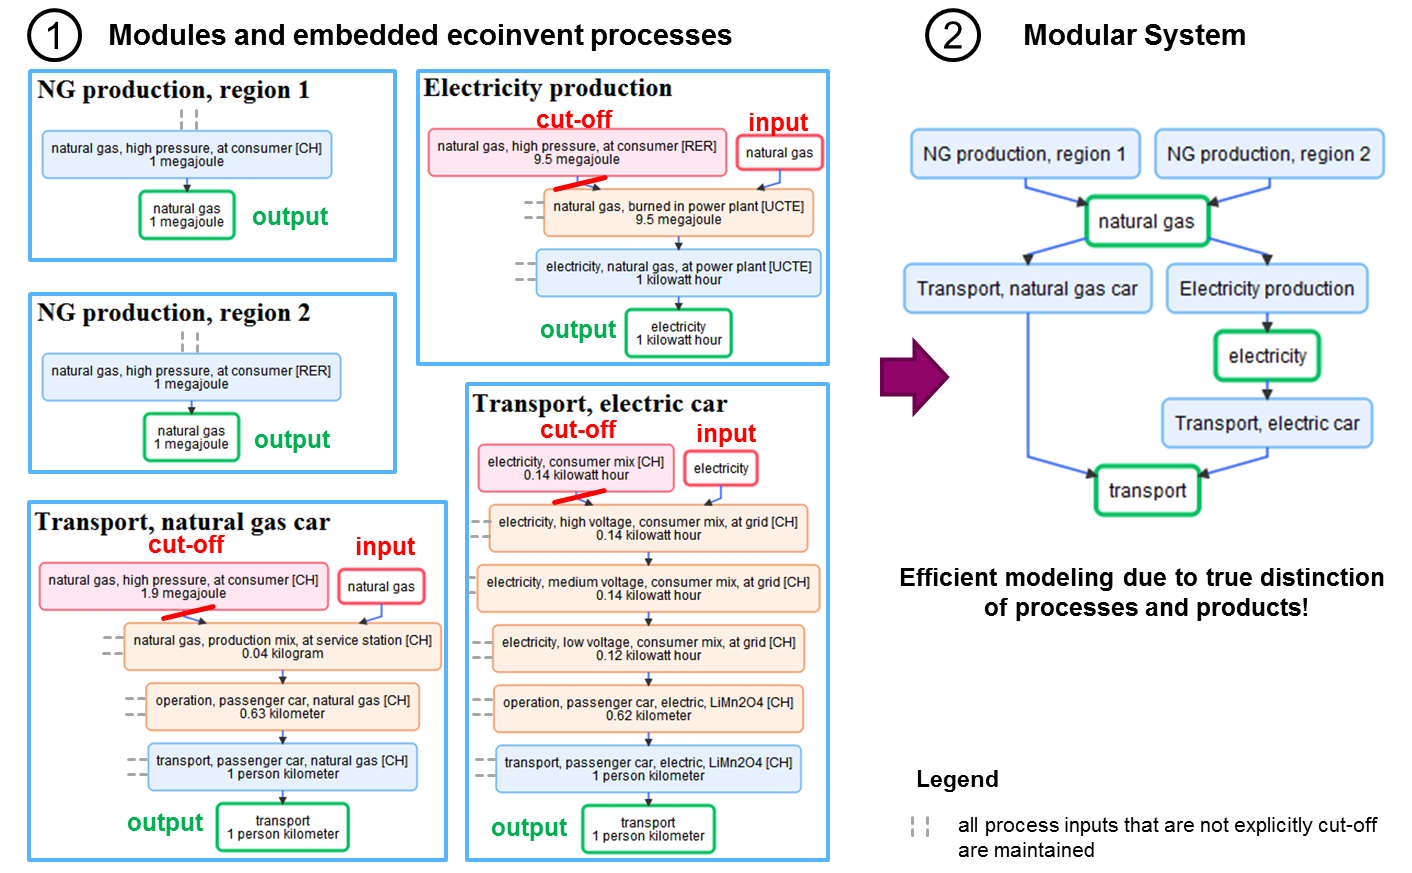
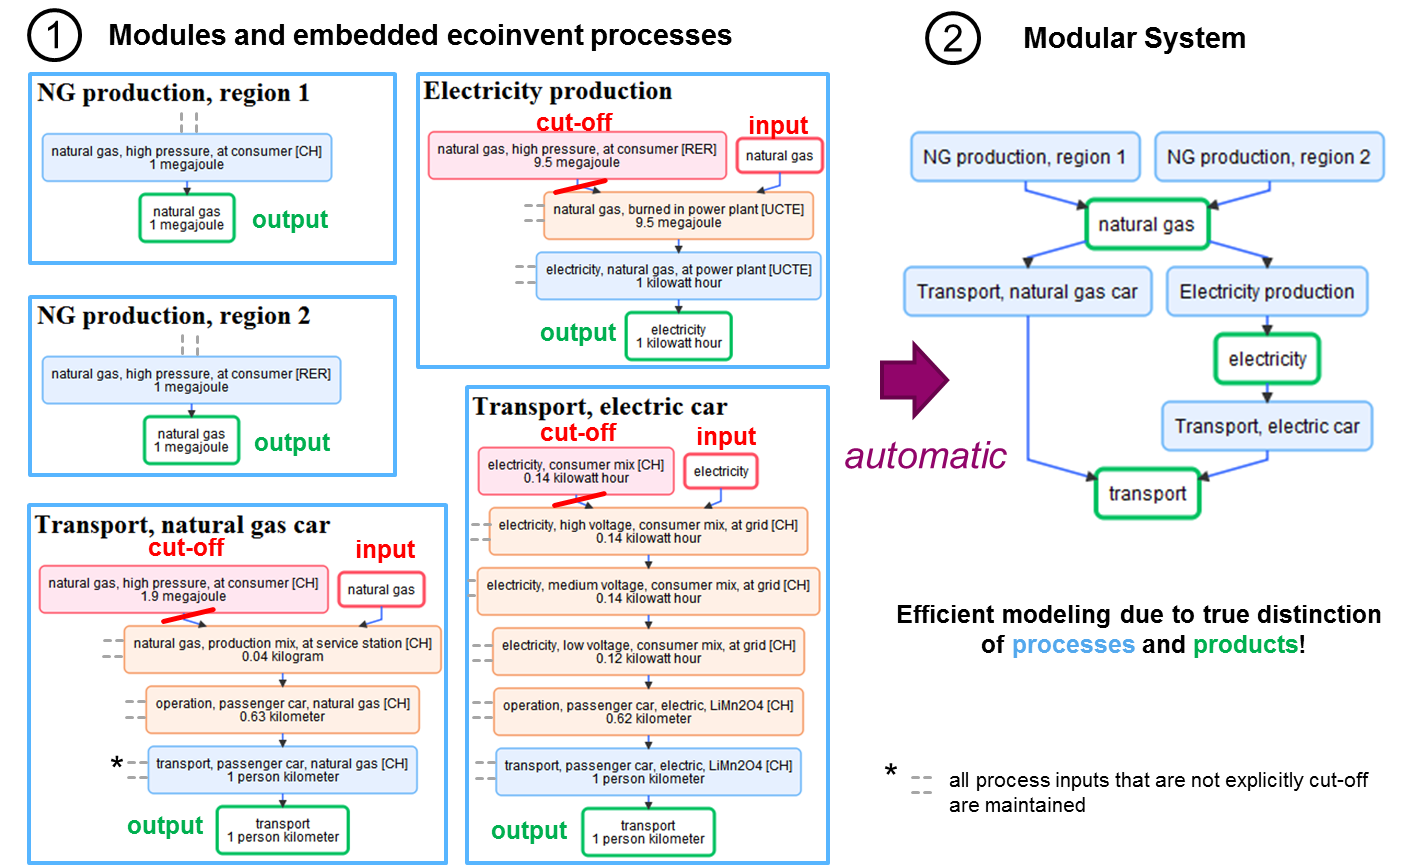
perhaps a better representation

diff --git a/README.md b/README.md
@@ -4,35 +4,38 @@ Licensed under the GNU General Public License. Copyright (c) 2015 Bernhard Steub
 
 ## General information ##
 
+> The analogy of Modular LCA are puzzle pieces, which can be combined in different ways to reflect alternative scenarios
+of the life cycle of products, or parts of supply or value chains.
+
 Unit processes constitute the basis for modeling in Life Cycle Assessment (LCA). LCA product systems often consist of
 thousands of unit processes that together describe the life cycle of a product. Modular LCA introduces an additional layer in between
 unit processes and complete product systems. Unit processes can be associated with so-called "modules" describing parts of a life cycle,
 similar to life cycle stages.
 
-There are several use cases where "modules" can come in handy:
-- very simply for doing impact assessment of life cycle stages
-- for modeling alternative scenarios for certain life cycle stages (e.g. manufacture, transportation, product use, and disposal)
-- for developing an LCA-based optimization model (e.g. linear programming)
+The Modular LCA framework can be applied to: 
+- associate unit processes and impact assessment results with life cycle stages 
+- streamline LCA based scenario comparisons (e.g. alternative manufacture, transportation, use phase or disposal processes)
+- identify and optimize key choices in value chains 
+- link LCA with other models (e.g. linear programming, material flow analysis)
 
-The implementation and advantages of the Modular LCA approach are described in detail in this paper:
+The Modular LCA approach and some applications are described in this paper:
 https://link.springer.com/article/10.1007/s11367-015-1015-3
 
-> The analogy of Modular LCA are puzzle pieces, which can be combined in different ways to reflect alternative scenarios
-of the life cycle of products, or parts of supply or value chains.
+### Example workflow: modules --> modular systems --> scenario comparisons ###
 
-### Example ###
-
-The following shows an example of how modules (left side) can be defined from existing unit processes. 
-The modular system (right) is automatically generated based on user defined names for the input and output products of the modules.  
-The result is a compact, life cycle stage representation of an underlying system of many unit processes. 
-More importantly, it contains alternatives - which are enabled by the definition of substitutable products (e.g. natural gas, which can be supplied from distinct suppliers).
-An important advantage of the modular approach is that such alternatives can be modelled without the need to duplicate unit processes 
-(e.g. Electricity production, from natural gas from Region 1 and Electricity production, from natural gas from Region 2). 
+The following shows an example of how modules (left side) can be defined from existing unit processes. The modular system (right) is automatically generated based on user defined names for the input and output products of the modules. The result is a compact, life cycle stage representation of an underlying system of many unit processes. More importantly, it contains alternatives - which are enabled by the definition of substitutable products (e.g. natural gas, which can be supplied from distinct suppliers). An important advantage of the modular approach is that such alternatives can be modelled without the need to duplicate unit processes (e.g. Electricity production, from natural gas from Region 1 and Electricity production, from natural gas from Region 2).
+Once a modular system has been defined, comparative impact assessment of all scenarios can be fully automated (see here by life cycle stage (i.e. by modules) or product).
 
 <img src="docs/images/modules_and_modular_system.png"/>
+<img src="docs/images/impact_assessment.png"/>
 
-The number of alternatives can quickly rise as shown in the following example. Once a modular system has been defined, 
-a comparative impact asssessment of all alternatives is fully automated (see here by life cycle stage (i.e. by modules) or product).
+
+
+
+### Example: automated scenario comparisons ###
+
+If there are several alternatives in subsequent parts of a products life cycle, the number of scenarios can quickly rise as shown in the following example. 
+Once a modular system has been defined, comparative impact assessment of all scenarios can be fully automated (see here by life cycle stage (i.e. by modules) or product).
 
 <img src="docs/images/transport_case_study.png"/>
 
